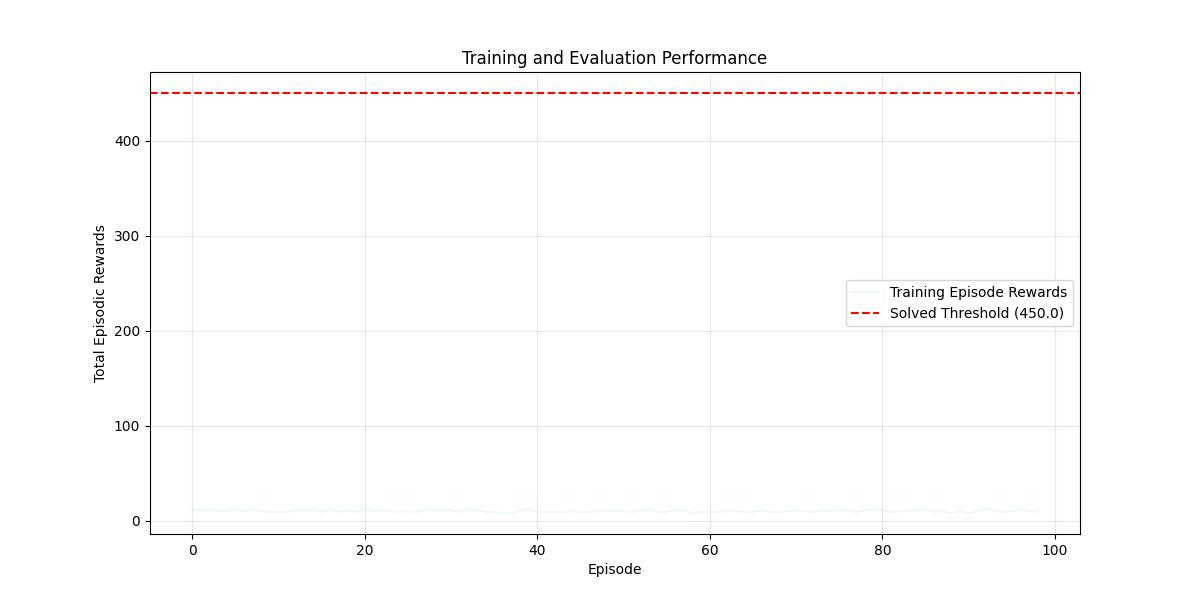
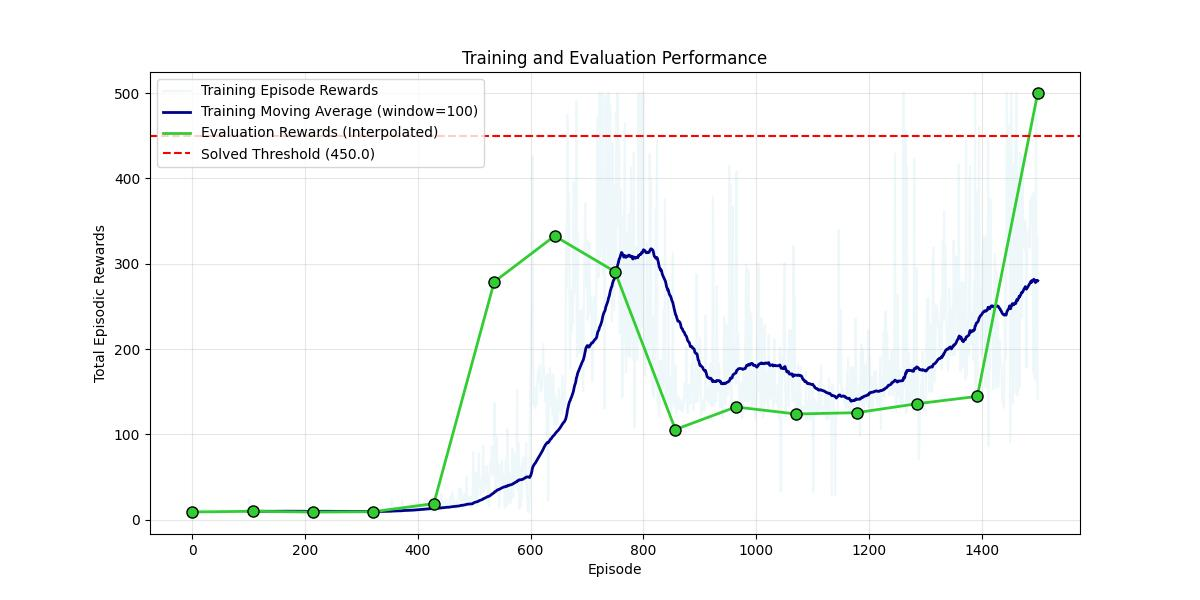
Updating DRL

diff --git a/Lesson-3/DRL/7. Noisy Nets/agent.py b/Lesson-3/DRL/7. Noisy Nets/agent.py
@@ -230,12 +230,7 @@ class AgentDQN(DQNBase):
             else:
                 obs = next_obs
             # Log out the metrics
-            postfix = {
-                "Ep.": episode,
-                "Train": f"{train_mean_reward:.2f}",
-                "Val": f"{val_mean_reward:.2f}",
-                "Eps.": f"{self.epsilon:.3f}",
-            }
+            postfix = {"Ep.": episode, "Train": f"{train_mean_reward:.2f}", "Val": f"{val_mean_reward:.2f}"}
             pbar.set_postfix(postfix)
 
             if timeout is not None and time.time() - start_time > timeout * 60:

diff --git a/Lesson-3/DRL/8. RAINBOW/agent.py b/Lesson-3/DRL/8. RAINBOW/agent.py
@@ -358,8 +358,9 @@ class AgentDQN(DQNBase):
                 "Ep.": episode,
                 "Train": f"{train_mean_reward:.2f}",
                 "Val": f"{val_mean_reward:.2f}",
-                "Eps.": f"{self.epsilon:.3f}",
             }
+            if not self.use_noisy_net:
+                postfix["Eps"] = f"{self.epsilon:.3f}"
             pbar.set_postfix(postfix)
 
             if timeout is not None and time.time() - start_time > timeout * 60:
